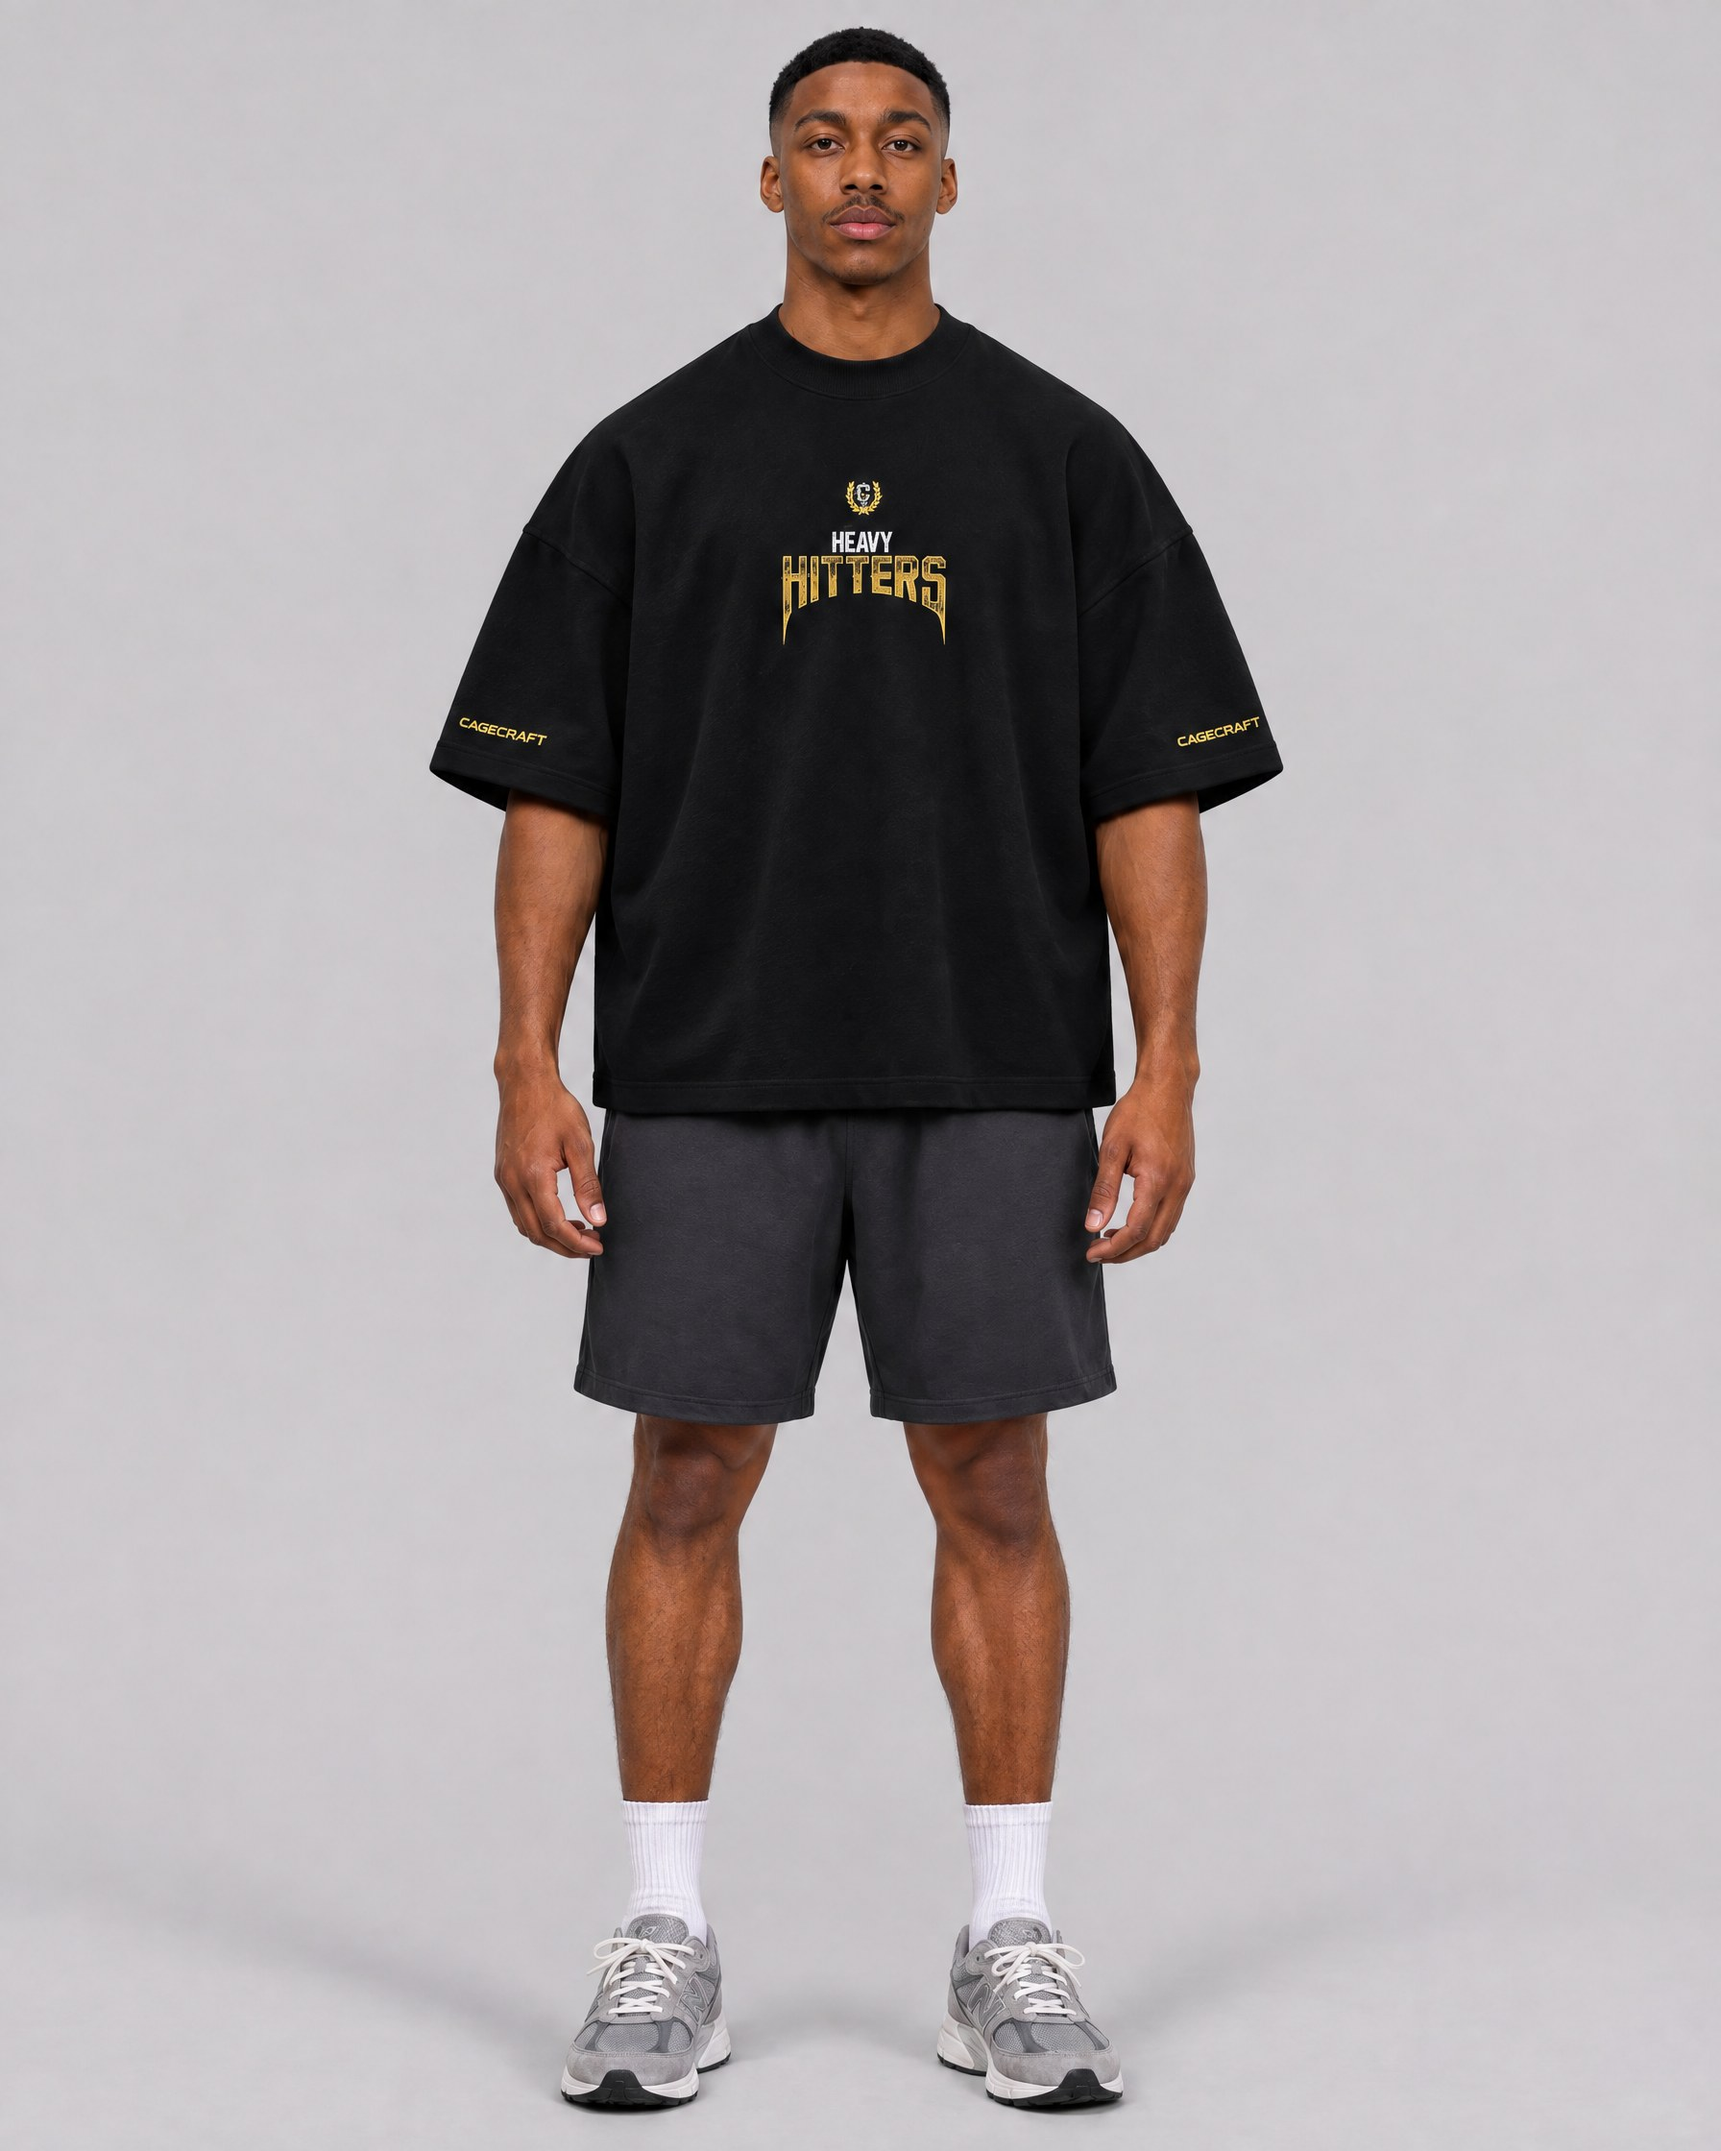
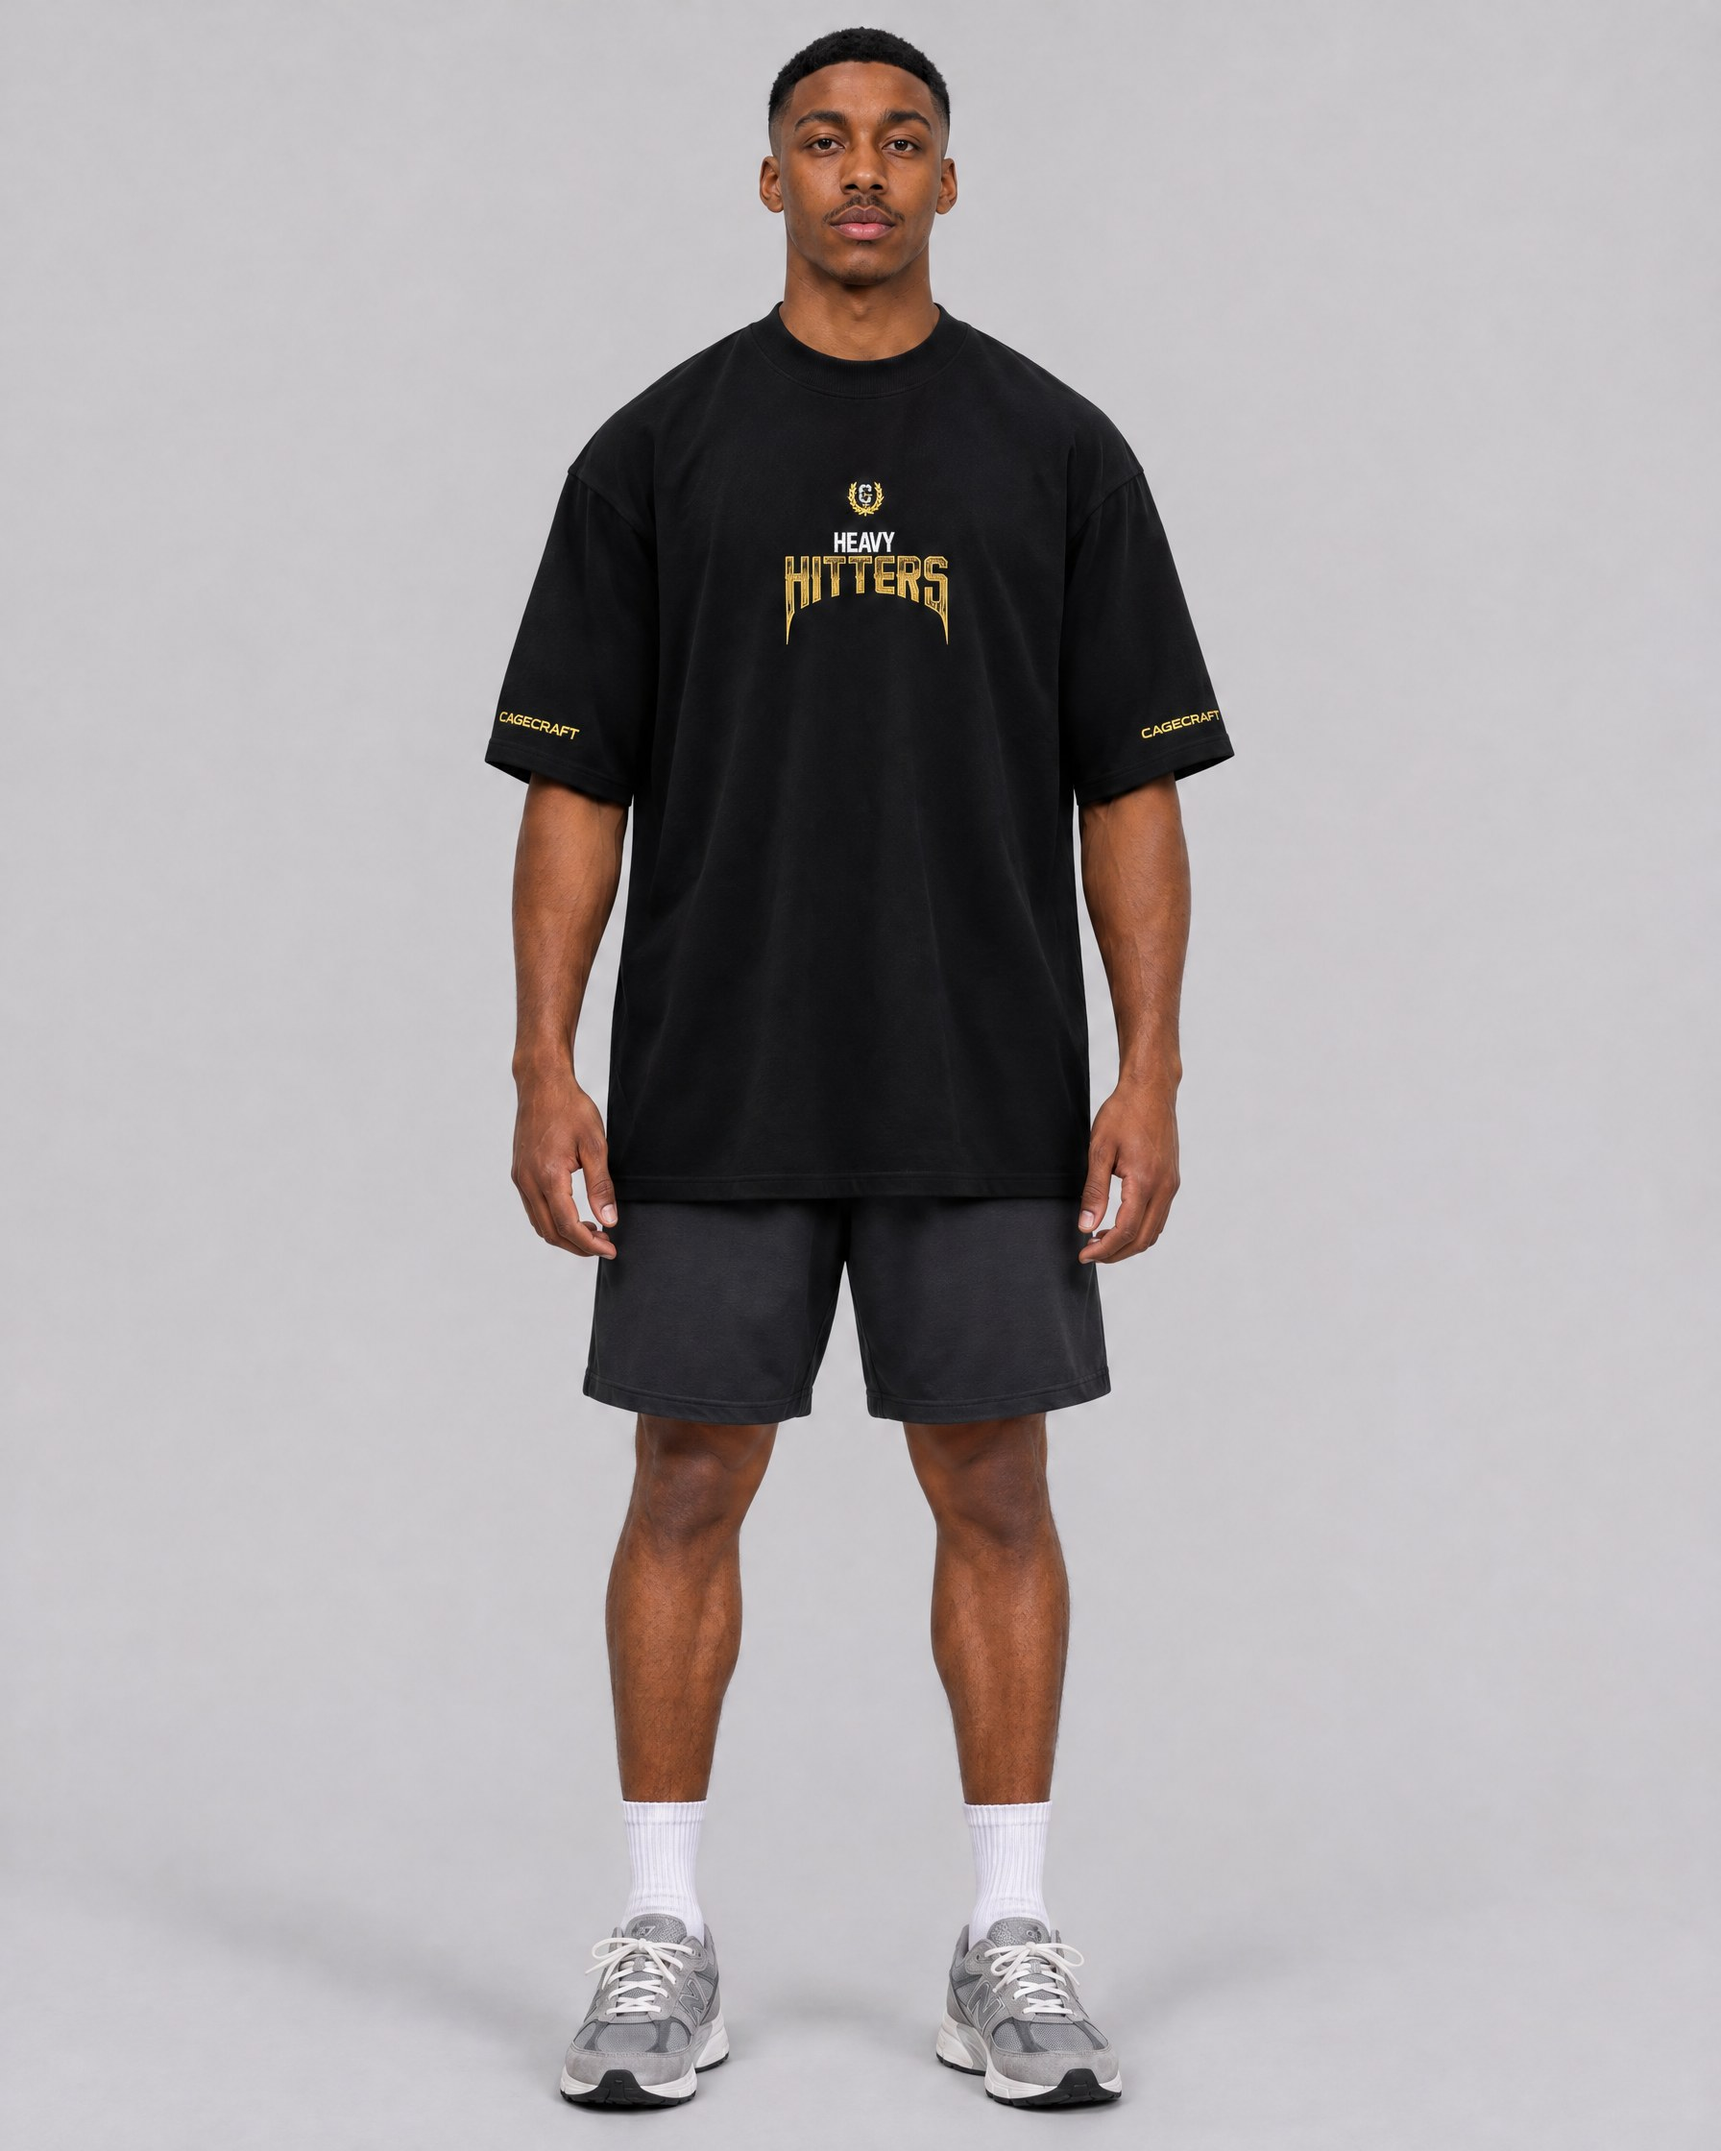
Heavy Hitters: refit male shots to the real tee's drape and sleeve
Claude-Session: https://claude.ai/code/session_01DwmoEpJ7m2nwLwYrrS6zRm

diff --git a/model-shots/README.md b/model-shots/README.md
@@ -19,9 +19,11 @@ so no print, embroidery or lettering comes from the AI model.
    embroidery crop is placed parallel to the cuff. CAGECRAFT wraps around the outer fold of the
    sleeve, so a front or back view only shows part of the word: front shows `RAFT` (image-left) and
    `CAGE` (image-right); back shows `RAFT` and `CAGEC`, matching the flat lays.
-5. **Fit fixes.** If a shot comes back too narrow or long, edit it in Higgsfield with the generated
-   image as reference plus the Apex back shot for fit: wider body, dropped shoulders, hem at hip.
-   Then re-run steps 3–4.
+5. **Fit.** Edit each shot in Higgsfield with `heavy-hitters/fit-reference-torso.jpg` (the real
+   tee worn) as the fit reference. The target fit: relaxed heavyweight drape about 20–25% wider than
+   the torso, falling straight from the chest; shoulder seam dropped a few cm; sleeves hang DOWN
+   along the arm, slightly loose, ending 3–4 cm above the elbow (no sideways flare); hem at the top
+   of the thigh, around wrist level. Then re-run steps 3–4.
 6. **Check.** Compare against the flat lays at 1:1 and fix any edge, scale or crop errors.
 
 ## Re-running for a new tee
